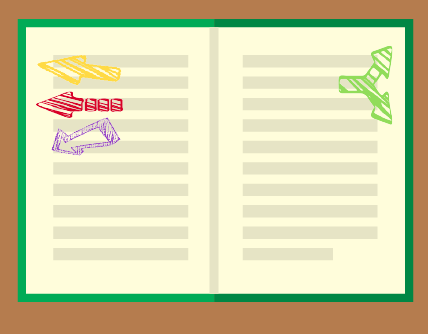
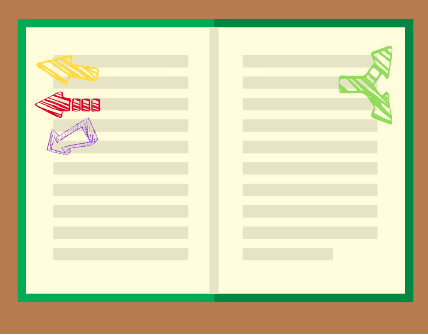
new book index

Changed region(s): [[0.0607, 0.1493, 0.3037, 0.4776]]

diff --git a/index.php b/index.php
@@ -145,12 +145,12 @@ queries -->
 
               <tr>
               <td style="width:20%">
-                <img src="assets/images/arrows-left.png" style="height:60%">
+                <!-- <img src="assets/images/arrows-left.png" style="height:60%"> -->
               </td>
                 <td style="text-align:center;width:60%"><h4 style="color:#8a6d3b">Δες τους σελιδοδείκτες και βιβλία βρες...</h4></td>
                 
                 <td style="width:18%;margin-right:5%;">
-                  <img src="assets/images/arrows-right.png" style="height:40%">
+                  <!-- <img src="assets/images/arrows-right.png" style="height:40%"> -->
                 </td>
               </tr>
               <tr></tr>
